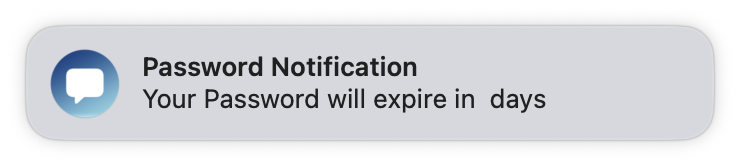
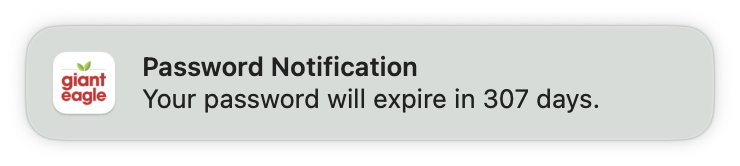
GUI Method of showing password expiration notices

diff --git a/PasswordExpire/README.md b/PasswordExpire/README.md
@@ -4,11 +4,20 @@ I was wanting to find a way to notify the users if their network password is abo
 
 The variable PASSWORD_EXPIRE_IN_DAYS can be used to set your expiration length (in days).  The script will show a notification center dialog if you the user is within 7 days of expiration.
 
+v1.2 adds the option to view your password days until expiration "on demand" so you can view it directly from Self service.
+
+
 **Initial Prompt**
 
 ![First Dialog prompt](/PasswordExpire/PasswordExpire.png)
-Notification Center prompt
+
+**Notification Center prompt**
 
 ![Notification Center](/PasswordExpire/PasswordExpireNotification.png)
 
+**Script Parameters**
+
+![](/PasswordExpire/PasswordExpire-Parameters.png)
+
 ##### _v1.0 - Initial Commit_
+##### _v1.2 - Add option for "on demand" viewing of password_
